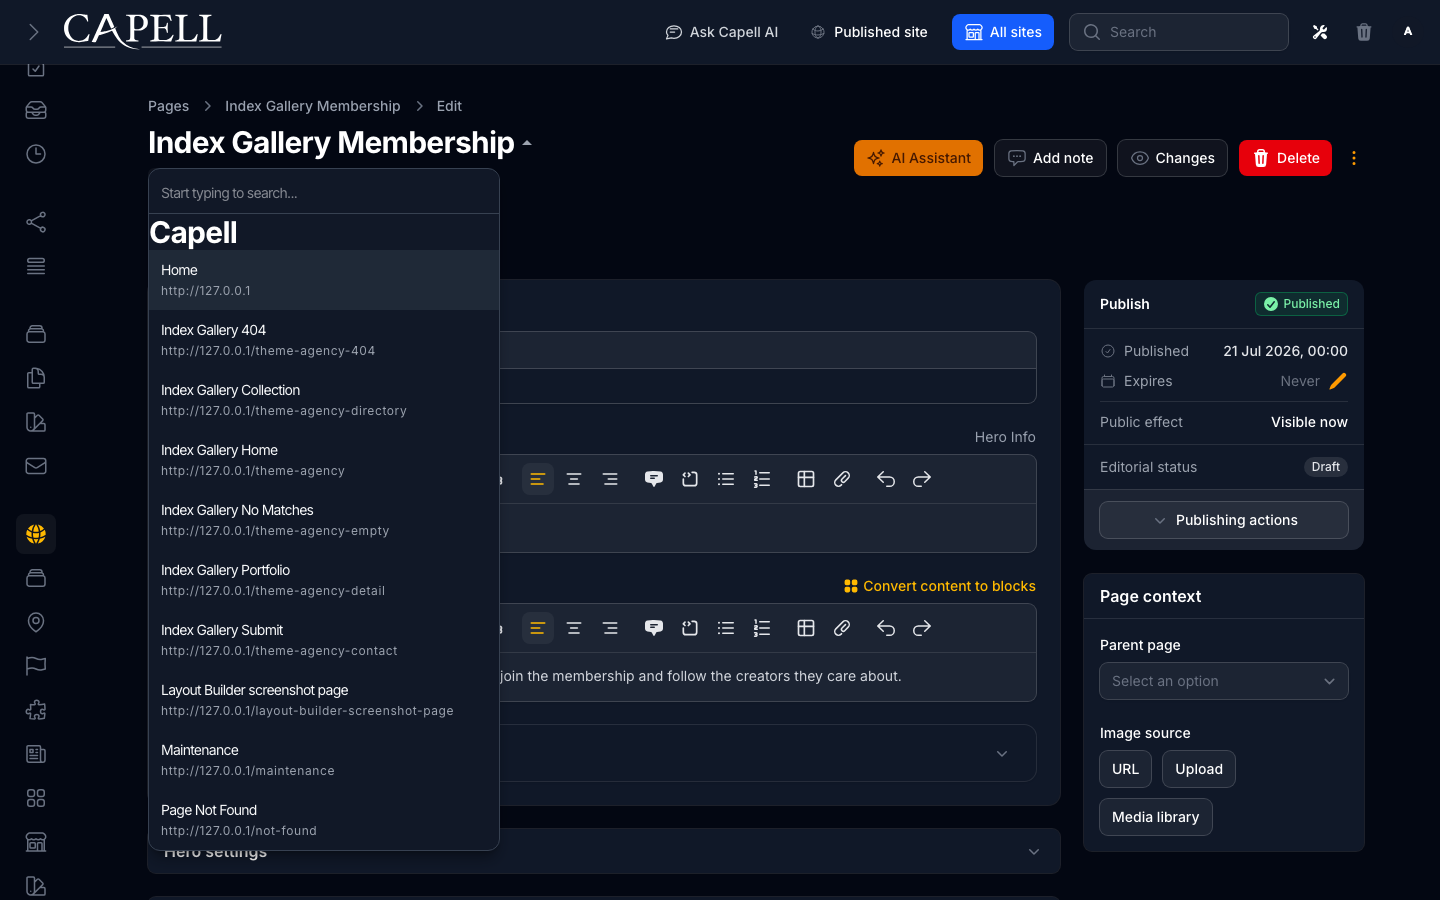
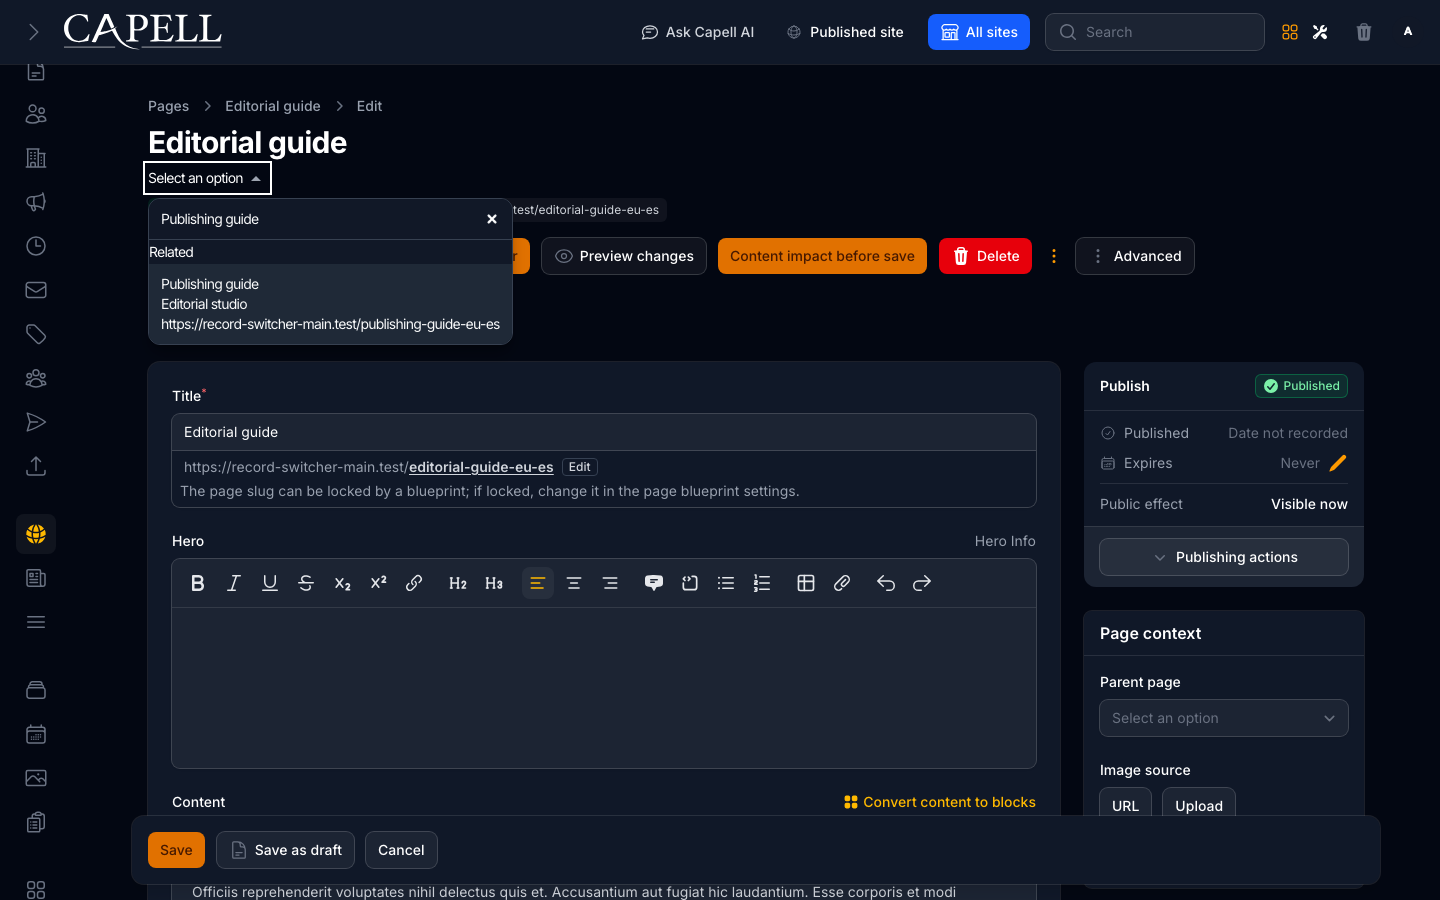
Release v1.1.35

diff --git a/src/Actions/Fixtures/PrepareRecordSwitcherScreenshotAction.php b/src/Actions/Fixtures/PrepareRecordSwitcherScreenshotAction.php
@@ -8,6 +8,7 @@ use Capell\Admin\Support\SiteScope;
 use Capell\Core\Models\Blueprint;
 use Capell\Core\Models\Page;
 use Capell\Core\Models\Site;
+use Capell\ScreenshotFixtures\FixtureState;
 use Illuminate\Contracts\Auth\Authenticatable;
 use Illuminate\Database\Eloquent\Builder;
 use Illuminate\Database\Eloquent\Model;
@@ -25,12 +26,18 @@ final class PrepareRecordSwitcherScreenshotAction
         abort_unless($actor !== null && SiteScope::isGlobalActor($actor), 403);
         $this->assertDisposableScreenshotEnvironment();
 
+        require_once dirname(__DIR__, 5) . '/scripts/screenshots/FixtureState.php';
+        FixtureState::boot();
+
         return $this->seedForCapture();
     }
 
     public function seedForCapture(): Page
     {
         $this->assertDisposableScreenshotEnvironment();
+
+        require_once dirname(__DIR__, 5) . '/scripts/screenshots/FixtureState.php';
+        FixtureState::boot();
         $actor = auth()->user();
         if ($actor === null) {
             $model = config('auth.providers.users.model');
@@ -65,7 +72,9 @@ final class PrepareRecordSwitcherScreenshotAction
             && getenv('CAPELL_SCREENSHOT_FIXTURE') === 'record-state'
             && is_string($appPath)
             && is_string($basePath)
-            && $appPath === $basePath, 403);
+            && $appPath === $basePath
+                && (realpath(base_path()) === realpath(dirname(__DIR__, 5) . '/vendor/orchestra/testbench-core/laravel')
+                    || str_starts_with((string) realpath(base_path()), dirname(__DIR__, 5) . '/tmp/testbench-skeletons/')), 403);
 
         $captureEmail = getenv('CAPELL_SCREENSHOT_ADMIN_EMAIL') ?: (getenv('CAPELL_ADMIN_EMAIL') ?: 'admin@example.com');
         $authenticated = auth()->user();

diff --git a/README.md b/README.md
@@ -33,7 +33,7 @@ Screenshot contract: `docs/screenshots.json`.
 
 ![Record Switcher empty search state](docs/screenshots/admin-heading-switcher-empty-search.png)
 
-- Record Switcher admin heading suggestions (admin, required evidence).
+- Record Switcher admin heading suggestions (admin, required authentic evidence).
 - Record Switcher empty search state (admin, supplementary evidence).
 - Record Switcher cross-site page suggestions (admin, supplementary evidence).
 
@@ -105,7 +105,7 @@ This package has no schema impact. It extends Capell through `asset` contributio
 ## Quick Start
 
 1. Install the package: `composer require capell-app/record-switcher`.
-2. Verify the package provider and manifest contributions are registered in the host app.
+2. Open the package admin surface at `/admin/pages` and confirm Record Switcher is available.
 
 ## Next Steps
 
